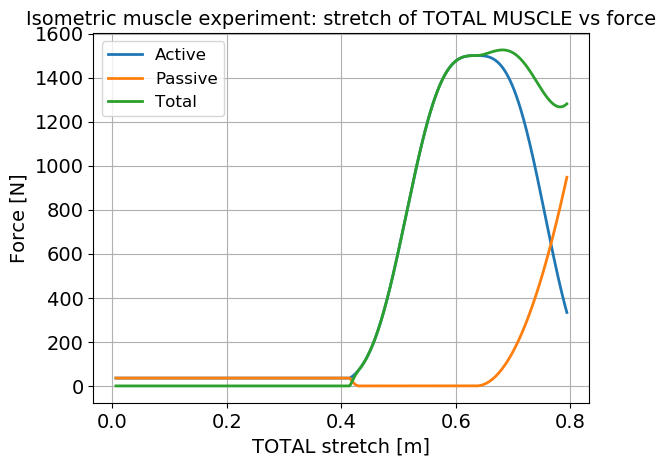
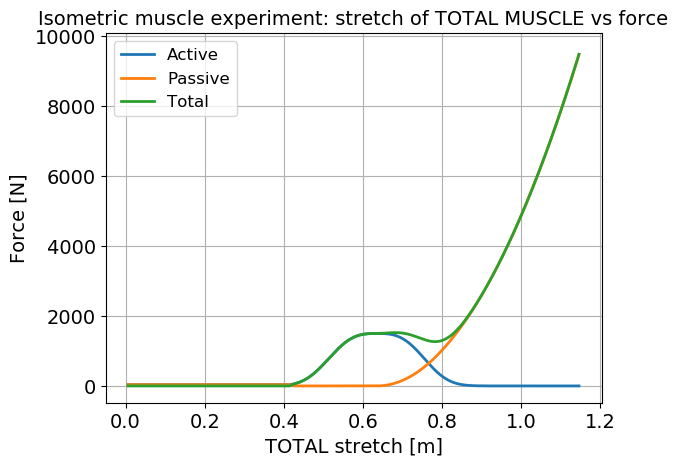
Exercise1 part 1 wrapup

diff --git a/LAB05/Python/exercise1.py b/LAB05/Python/exercise1.py
@@ -2,6 +2,7 @@
 
 import matplotlib.pyplot as plt
 import numpy as np
+import math
 
 import cmc_pylog as pylog
 from muscle import Muscle
@@ -35,28 +36,22 @@ class TimeParameters:
         self.times = np.arange(self.t_start, self.t_stop, self.step)
 
 
-def find_ce_stretch_iso(ce_stretch, time_param, stimulation=1, error_max=0.01):
+def find_ce_stretch_iso(muscle_sys, ce_stretch, time_param, stimulation=1, error_max=0.01):
     """Finds the total relative stretch to apply to obtain ce_stretch in isometric mode"""
     stretch = error_max
 
-    # Muscle definition
-    parameters = MuscleParameters()
-    muscle = Muscle(parameters)
-    sys = IsometricMuscleSystem()
-    sys.add_muscle(muscle)
-
     # Simulation parameters
-    x0 = [0.0, sys.muscle.L_OPT]
+    x0 = [0.0, muscle_sys.muscle.L_OPT]
 
     while True:
-        result = sys.integrate(x0=x0,
-                               time=time_param.times,
-                               time_step=time_param.step,
-                               stimulation=stimulation,
-                               muscle_length=stretch * (sys.muscle.L_OPT+sys.muscle.L_SLACK))
-        if result.l_ce[-1]/sys.muscle.L_OPT > ce_stretch:
-            pylog.info("Reaches l_ce stretch " + str(result.l_ce[-1]/sys.muscle.L_OPT) + " for total stretch of:" +
-                       str(stretch))
+        result = muscle_sys.integrate(x0=x0,
+                                      time=time_param.times,
+                                      time_step=time_param.step,
+                                      stimulation=stimulation,
+                                      muscle_length=stretch * (muscle_sys.muscle.L_OPT+muscle_sys.muscle.L_SLACK))
+        if result.l_ce[-1]/muscle_sys.muscle.L_OPT > ce_stretch:
+            pylog.info("Reaches l_ce stretch " + str(result.l_ce[-1]/muscle_sys.muscle.L_OPT) + " for total stretch of:"
+                       + str(stretch))
             break
         else:
             stretch += error_max
@@ -66,7 +61,7 @@ def find_ce_stretch_iso(ce_stretch, time_param, stimulation=1, error_max=0.01):
 
 def plot_all_force_vs_stretch(active_force, passive_force, total_force, stretch, title, x_label, handle=None):
 
-    force_labels = ['Active', 'Passive', 'Total']
+    force_labels = ['Active force, stimulation = 1.', 'Passive, stimulation = 1.', 'Total, stimulation = 1.']
     if handle is None:
         handle = title
 
@@ -90,30 +85,40 @@ def add_force_to_plot(handle, force, l):
 
 def plot_isometric_data(active_force, passive_force, total_force, l_ce, l_slack, l_mtc, handle=None):
 
-    if handle is None:
-        plot_all_force_vs_stretch(active_force, passive_force, total_force, l_ce,
-                                  'Isometric muscle experiment: stretch of CE vs force', 'CE stretch [m]',
-                                  handle="1_a_lce_vs_str")
-        plot_all_force_vs_stretch(active_force, passive_force, total_force, l_slack,
-                                  'Isometric muscle experiment: stretch of SLACK vs force', 'SLACK stretch [m]',
-                                  handle="1_a_lsl_vs_str")
-        plot_all_force_vs_stretch(active_force, passive_force, total_force, l_mtc,
-                                  'Isometric muscle experiment: stretch of TOTAL MUSCLE vs force', 'TOTAL stretch [m]',
-                                  handle="1_a_lmtc_vs_str")
-    # TODO: Have this redone in a more logical way
-    else:
-        plot_all_force_vs_stretch(active_force, passive_force, total_force, l_ce,
-                                  'Isometric muscle experiment: stretch of CE vs force', 'CE stretch [m]',
-                                  handle=handle[0])
-        plot_all_force_vs_stretch(active_force, passive_force, total_force, l_slack,
-                                  'Isometric muscle experiment: stretch of SLACK vs force', 'SLACK stretch [m]',
-                                  handle=handle[1])
-        plot_all_force_vs_stretch(active_force, passive_force, total_force, l_mtc,
-                                  'Isometric muscle experiment: stretch of TOTAL MUSCLE vs force', 'TOTAL stretch [m]',
-                                  handle=handle[2])
+    plot_all_force_vs_stretch(active_force, passive_force, total_force, l_ce,
+                              'Isometric muscle experiment: length of contractile element vs force',
+                              'Length of the contractile element stretch [m]',
+                              handle=handle[0])
+    plot_all_force_vs_stretch(active_force, passive_force, total_force, l_slack,
+                              'Isometric muscle experiment: length of SLACK vs force', 'SLACK stretch [m]',
+                              handle=handle[1])
+    plot_all_force_vs_stretch(active_force, passive_force, total_force, l_mtc,
+                              'Isometric muscle experiment: stretch of TOTAL MUSCLE vs force', 'TOTAL stretch [m]',
+                              handle=handle[2])
 
 
-def iso_experiment(muscle_stimulation=1, ce_stretch_max=1.5, ce_stretch_min=0.5, nb_pts=1000,
+def equalize_axis(handles):
+    x_min = math.inf
+    x_max = -math.inf
+    y_min = math.inf
+    y_max = -math.inf
+
+    for handle in handles:
+        plt.figure(handle)
+        x_bot, x_top = plt.xlim()
+        y_bot, y_top = plt.ylim()
+        x_min = min(x_min, x_bot)
+        x_max = max(x_max, x_top)
+        y_min = min(y_min, y_bot)
+        y_max = max(y_max, y_top)
+
+    for handle in handles:
+        plt.figure(handle)
+        plt.xlim(x_min, x_max)
+        plt.ylim(y_min, y_max)
+
+
+def iso_experiment(muscle_stimulation=1., ce_stretch_max=1.5, ce_stretch_min=0.5, nb_pts=1000,
                    time_param=TimeParameters(), l_opt=None):
 
     # System definition
@@ -126,8 +131,8 @@ def iso_experiment(muscle_stimulation=1, ce_stretch_max=1.5, ce_stretch_min=0.5,
     sys.add_muscle(muscle)
 
     # Experiment parameters
-    muscle_stretch_max = find_ce_stretch_iso(ce_stretch_max, time_param)
-    muscle_stretch_min = find_ce_stretch_iso(ce_stretch_min, time_param)
+    muscle_stretch_max = find_ce_stretch_iso(sys, ce_stretch_max, time_param)
+    muscle_stretch_min = find_ce_stretch_iso(sys, ce_stretch_min, time_param)
     stretches = np.arange(muscle_stretch_min, muscle_stretch_max, muscle_stretch_max / nb_pts)
     x0 = [0.0, sys.muscle.L_OPT + sys.muscle.L_SLACK]
 
@@ -171,12 +176,12 @@ def exercise1a(time_param):
     ce_stretch_max = 1.5
     ce_stretch_min = 0.5
     nb_pts = 1000
-
+    handles = ["1_a_lce_vs_str", "1_a_lsl_vs_str", "1_a_lmtc_vs_str"]
     # Experiment
     active_force, passive_force, total_force, l_ce, l_slack, l_mtc = iso_experiment(muscle_stimulation, ce_stretch_max,
-                                                                                    ce_stretch_min, nb_pts, time_param)
+                                                                                    ce_stretch_min, nb_pts, time_param,)
     # Plotting
-    plot_isometric_data(active_force, passive_force, total_force, l_ce, l_slack, l_mtc)
+    plot_isometric_data(active_force, passive_force, total_force, l_ce, l_slack, l_mtc, handle=handles)
     # endregion
 
 
@@ -230,10 +235,10 @@ def exercise1b(time_param):
 def exercise1c(time_param):
 
     l_opt_1 = 0.5
-    l_opt_2 = 0.05
-    stim = 1
-    ce_stretch_max = 1.5
-    ce_stretch_min = 0.5
+    l_opt_2 = 0.25
+    stim = 1.
+    ce_stretch_max = 2
+    ce_stretch_min = 0.1
     nb_pts = 1000
     handles_long = ["1_c_lce_iso_long", "1_c_lsl_iso_long", "1_c_lmtc_long"]
     handles_small = ["1_c_lce_iso_small", "1_c_lsl_iso_small", "1_c_lmtc_small"]
@@ -249,6 +254,9 @@ def exercise1c(time_param):
     plot_isometric_data(active_force_1, passive_force_1, total_force_1, l_ce_1, l_slack_1, l_mtc_1, handle=handles_long)
     plot_isometric_data(active_force_2, passive_force_2, total_force_2, l_ce_2, l_slack_2, l_mtc_2,
                         handle=handles_small)
+
+    for graph_couple in zip(handles_long, handles_small):
+        equalize_axis(graph_couple)
 
 
 def exercise1d():
@@ -330,7 +338,7 @@ def exercise1():
     pylog.info("Start exercise 1")
     time_param = TimeParameters(0.0, 0.2, 0.001)
 
-    # exercise1a(time_param)
+    exercise1a(time_param)
     # exercise1b(time_param)
     # exercise1c(time_param)
     # exercise1d()

diff --git a/LAB05/Python/cmcpack/default.py b/LAB05/Python/cmcpack/default.py
@@ -3,7 +3,7 @@ import os
 
 DEFAULT = {
     "label": ["State 0", "State 1"],
-    "save_figures": False,
+    "save_figures": True,
     "save_extensions": ["png"],
     "save_folder": os.getcwd().replace("Python", "Figures")+"\\"
 }
